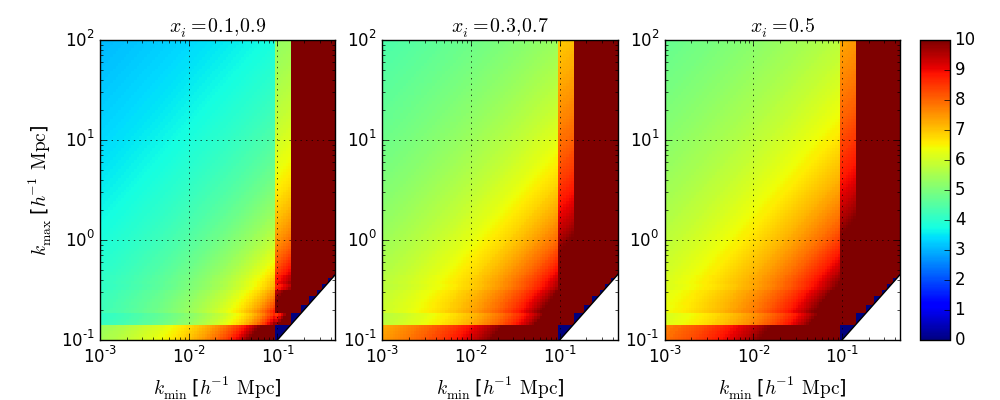
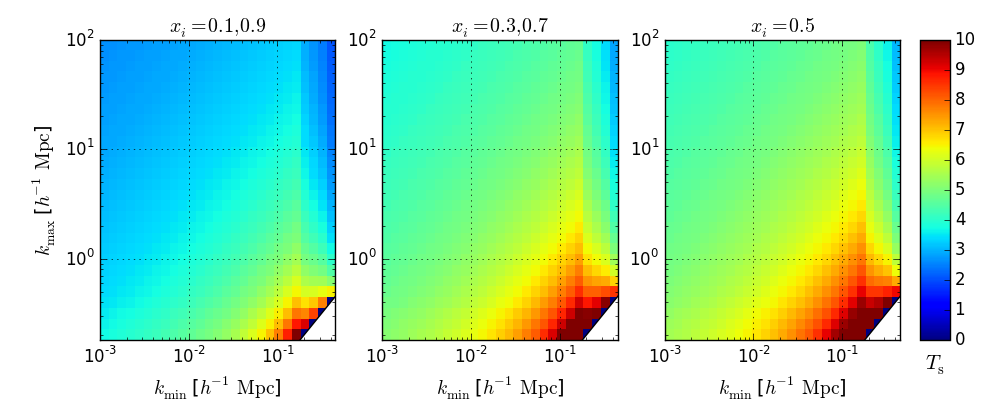
update some fr filter text.
Finalize tsys plot and update bib

diff --git a/psa64_pspec_ver2.tex b/psa64_pspec_ver2.tex
@@ -181,7 +181,7 @@ There are two complementary experimental approaches to accessing 21~cm emission 
 our cosmic dawn.  So-called ``global" experiments such as 
 EDGES \citep{bowman_et_al2010}, 
 the LWA \citep{ellingson_et_al2013},
-LEDA \citep{greenhill_bernardi2012}), 
+LEDA \citep{greenhill_bernardi2012,bernardi_et_al2015}, 
 DARE \citep{burns_et_al2012}, 
 SciHi \cite{tabitha_et_al2014}, 
 BigHorns \citep{sokolowski_et_al2015},
@@ -966,7 +966,7 @@ foregrounds are suppressed by $\sim$5 orders of magnitude in power, or
 \ref{fig:waterfalls}. As discussed in P14, there is a small amount of signal loss
 associated with this foreground filter, for the baselines and filter parameters the loss was found to be 4.8\% for the
 first mode outside of the horizon, 1.3\% for the next mode out, and less than
-.0015\% for the higher modes.  [XXX are we applying these numbers to the pspec or just calling it negligible?]  
+.0015\% for the higher modes.  [XXX are we applying these numbers to the pspec or just calling it negligible? The are applied to their corresponding modes.]  
 
 After the wideband delay filter, we conduct another remove a second layer of RFI and crosstalk
  which was overshadowed by the foreground signal. RFI are excised with 
@@ -1098,17 +1098,23 @@ jackknife tests.
 %   t_int = 42.8/n.mean(fr100)
 %   
 
-Prior to forming power spectra we need to time average visibilities that measure
-the same $k$ mode on the sky. The motivation for this is that we want to combine
-coherent $k$-modes on the sky before squaring to get the maximum sensitivity and is mathematically similar to the more traditional process of gridding in the $uv$ plane, but just for a single baseline.  However, rather appealing a box-car average, we can apply a kernel --a so-called 'fringe-rate' filter-- that
-weights different temporal rates by the antenna beam corresponding to the parts of the sky moving at the same rate.
+Prior to forming power spectra we need to time average visibilities that
+measure the same $k$ mode on the sky. The motivation for this is that we want
+to combine coherent $k$-modes on the sky before squaring to get the maximum
+sensitivity. This is mathematically similar to the more traditional process of
+gridding in the $uv$ plane, but for a single baseline.  However, rather
+than applying a box-car average, we can apply a kernel --a so-called
+'fringe-rate' filter-- that weights different temporal rates by the antenna
+beam corresponding to the parts of the sky moving at the same rate.
 
 Broadly, for a given baseline and frequency, different parts of the sky
 correspond to different fringe-rates.
 Maximum fringe rates are found along the equatorial plane, where the rotation
 rate of the earth is highest, and zero fringe rates are found at the poles,
 where the rotation rate of the earth is zero and hence sources do not move
-and have static fringe patterns \cite{parsons_backer2009}. We then compute the average beam response for each contour of constant fringe rate to construct our time average kernel or "fringe rate filter".
+and have static fringe patterns \citep{parsons_backer2009}. We then compute the
+average beam response for each contour of constant fringe rate to construct our
+time average kernel or "fringe rate filter".
 
 %[XXX this paragraph could probably go -dcj]
 %As motivation, we discuss the use of fringe-rate filters in cross talk removal.
@@ -1130,33 +1136,28 @@ and have static fringe patterns \cite{parsons_backer2009}. We then compute the a
 %gives us a net increase in signal-to-noise, even though we are removing 
 %signal by applying signal from this filter. 
 
-Applying this filter effectively weights the data by another factor of the beam area. By utilizing prior knowledge about the beam area we are selectively down weighting areas on the sky contributing little signal. This results in an SNR boost of about 2.  The net boost
-in SNR depends on the shape of the beam and array declination and is functionally equivalent to the beam$^2$ weighting used in wide-field mosaicing. It is also worth noting that, like the delay spectrum filtering, fringe-rate filtering is
- implemented on a per-baseline basis.
+Applying this filter effectively weights the data by another factor of the beam
+area, changing the primary beam response, $\Omega$\footnote{The angular area in
+equation \ref{eqn:delay_pspec} will reflect the new angular area corresponding
+to the change in beam area.}
+\citep{parsons_et_al2015}. By utilizing prior knowledge about the beam area we
+are selectively down weighting areas on the sky contributing little signal. This
+results in an SNR boost of about 2.  The net boost in SNR depends on the shape
+of the beam and array declination and is functionally equivalent to the beam$^2$
+weighting used in wide-field mosaicing. It is also worth noting that, like the
+delay spectrum filtering, fringe-rate filtering is implemented on a per-baseline
+basis.
 
 %We implement the optimal fringe-rate filter by calculating the fringe rates at
 %every point on the sky, for a given frequency, and weighting each bin by the
 %beam of a given baseline. 
  We weight
-the fringe-rate bins on the sky by the beam pattern at the same point on the
-sky. In order to obtain a smooth filter in the fringe-rate domain, we fit a
-gaussian with a hyperbolic tangent tail to this filter. %as shown in figure \ref{fig:fringe_rate_cut}. 
-% XXX too much detail
-We then Fourier transform this to obtain the time
-domain filter, multiply by a Blackman-Harris window function to damp the tails
-of the filter, and finally convolve with the visibilites to effect time domain
-integration.  The before/after effect on the data can be seen in Figure \ref{fig:waterfalls}.
-
-The PAPER beam is ~45 degrees FWHM, and the array is located at a declination
-of $-30^{\circ}$ the fringe rates associated with the low signal to noise (down
-in the beam) correspond to very high and very low/negative fringe rates.
-%Figure \ref{fig:fringe_rate_cut} shows a cut of the optimal fringe-rate filter at 159 MHz for
-%a 30-m east west baseline. 
-Therefore, the implemented fringe-rate filter removes
-some sky signal, signal associated with fringe rates outside of the ranges shown
-in Figure \ref{fig:fr_preserved_signal}. Figure \ref{fig:fr_preserved_signal} shows
-that the applied filter removes sky associated with negative fringe rates and
-very high fringe rates. [XXX how does this loss compare with the delay spectrum loss?  Can't just leave this statement dangling...]
+the fringe-rate bins on the sky by the beam pattern at that location.
+In order to obtain a smooth filter in the fringe-rate domain, we fit a
+gaussian with a hyperbolic tangent tail to this filter. We convolve the time
+domain visibilities with the fourier transform of this fringe-rate filter to
+produce an averaged visibility.  The before/after effect on the data can be seen
+in Figure \ref{fig:waterfalls}.
 
 %\begin{figure}[!t]
 %\centering
@@ -1207,11 +1208,30 @@ without loss of generality. We can conclude that
 \begin{equation}
     t_{int} = \frac{\int{\sigma^{2}dt}}{\int{\sigma^{2}fr^{2}dt}},
 \end{equation}
-which evaluates to 1886 s for an optimal fringe-rate filter on a 30 m East-West baseline at 149.5 MHz.
-Over the range of frequencies used in our power spectrum estimate, the
-integration times range from 1936 s to 1790 s, corresponding to an average of 31
-minutes. As a rough check, note that this is roughly how long a single 30m fringe at 150MHz takes to make one oscillation on the sky.  Because the fringe-rate filter integrates in time, the number
-of statistically independent samples of the sky drastically decreases from 83 to $\sim2$ independent samples per hour.
+which evaluates to 1886 s for an optimal fringe-rate filter on a 30 m East-West
+baseline at 149.5 MHz.  Over the range of frequencies used in our power spectrum
+estimate, the integration times range from 1936 s to 1790 s, corresponding to an
+average of 31 minutes. As a rough check, note that this is roughly how long a
+single 30m fringe at 150MHz takes to make one oscillation on the sky.  Because
+the fringe-rate filter integrates in time, the number of statistically
+independent samples of the sky drastically decreases from 83 to $\sim2$
+independent samples per hour.
+
+%It is important to note that the fringe rate filter is removing some sky signa
+%as is seen in figure \ref{fig:waterfalls}, but it is removing 
+%The PAPER beam is ~60 degrees FWHM \citep{jacobs_et_al2011}, and the array is
+%located at a declination of $-30^{\circ}$ the fringe rates associated with the
+%low signal to noise (down in the beam) correspond to very high and very
+%low/negative fringe rates.
+%%Figure \ref{fig:fringe_rate_cut} shows a cut of the optimal fringe-rate filter
+%%at 159 MHz for
+%%a 30-m east west baseline. 
+%Therefore, the implemented fringe-rate filter removes
+%some sky signal, signal associated with fringe rates outside of the ranges shown
+%in Figure \ref{fig:fr_preserved_signal}. Figure \ref{fig:fr_preserved_signal} shows
+%that the applied filter removes sky associated with negative fringe rates and
+%very high fringe rates. [XXX how does this loss compare with the delay spectrum loss?  Can't just leave this statement dangling...]
+%
 
 %\begin{figure}[h!]\centering
 %\includegraphics[width=\columnwidth, height=.8\columnwidth]{plots/noise_t_35.png}

diff --git a/plots/plot_patchy_bound.py b/plots/plot_patchy_bound.py
@@ -170,9 +170,6 @@ for cnt,(xi,sty) in enumerate([(.1,'-'), (.3,'--'), (.5,'-.')]):
             sig2 = Ts_post_2s(avg, lim, err,8.4) 
             #print sig2
             T_b_lim_kwid.append(sig2)
-            
-                   
- 
 #            for L in limits:
 #                ks, k3pk, err, clr = limits[L]
 #                #if ks < kcen - kwid or ks > kcen + kwid:
@@ -201,7 +198,7 @@ for cnt,(xi,sty) in enumerate([(.1,'-'), (.3,'--'), (.5,'-.')]):
     p.xscale('log')
     p.yscale('log')
     p.xlim(1e-3,0.45)
-    p.ylim(1e-1,1e2)
+    p.ylim(1.8e-1,1e2)
     #p.fill_between([-3,3],[-3,3],[-3,-3], facecolor='w', alpha=1)
     if xi == 0.5: p.title('$x_i=%3.1f$'%xi)
     else: p.title('$x_i=%3.1f,%3.1f$' % (xi,1-xi))
@@ -221,7 +218,8 @@ for cnt,(xi,sty) in enumerate([(.1,'-'), (.3,'--'), (.5,'-.')]):
     
 #p.colorbar()
 cbar_axis=fig.add_axes([.92,.15,.03,.75])
-fig.colorbar(image, cax=cbar_axis)
+cb = fig.colorbar(image, cax=cbar_axis)
+cbar_axis.set_xlabel(r'$T_{\rm s}$', size=15, labelpad=10)
 p.subplots_adjust(left=.1,bottom=.15,top=.90,right=.90)
 p.show()
 
